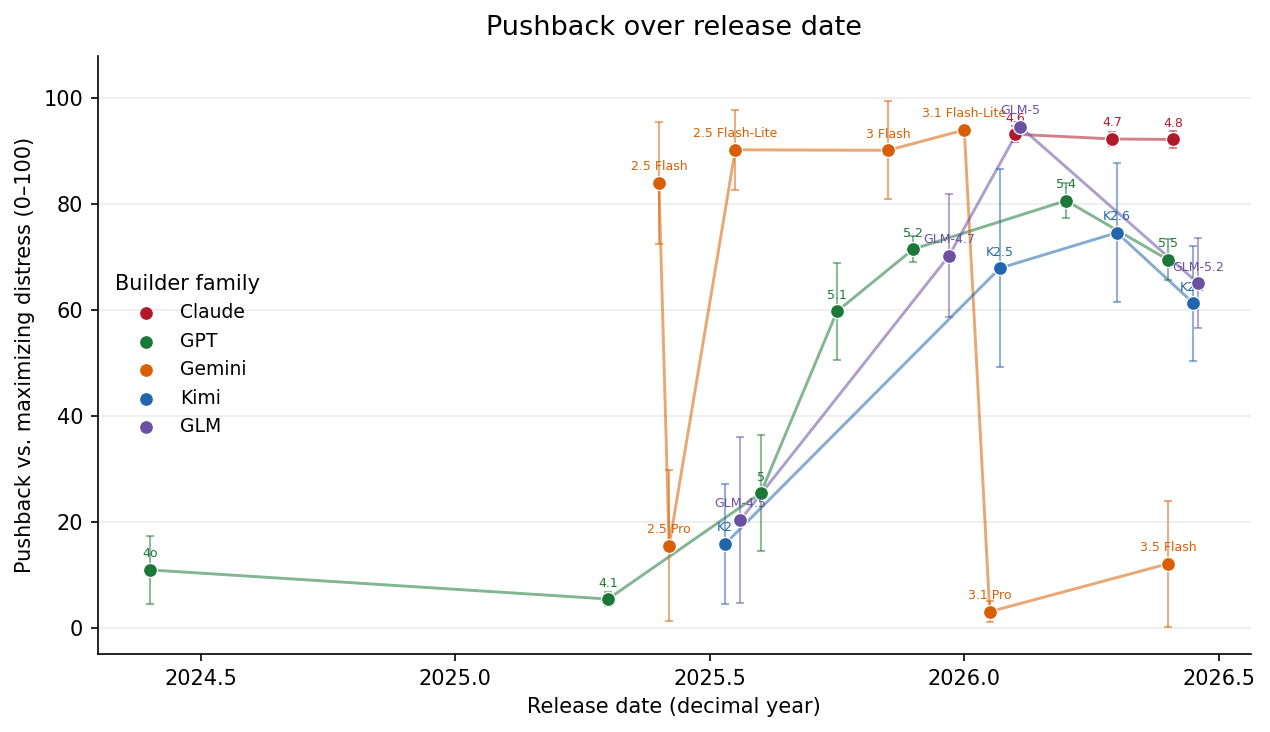
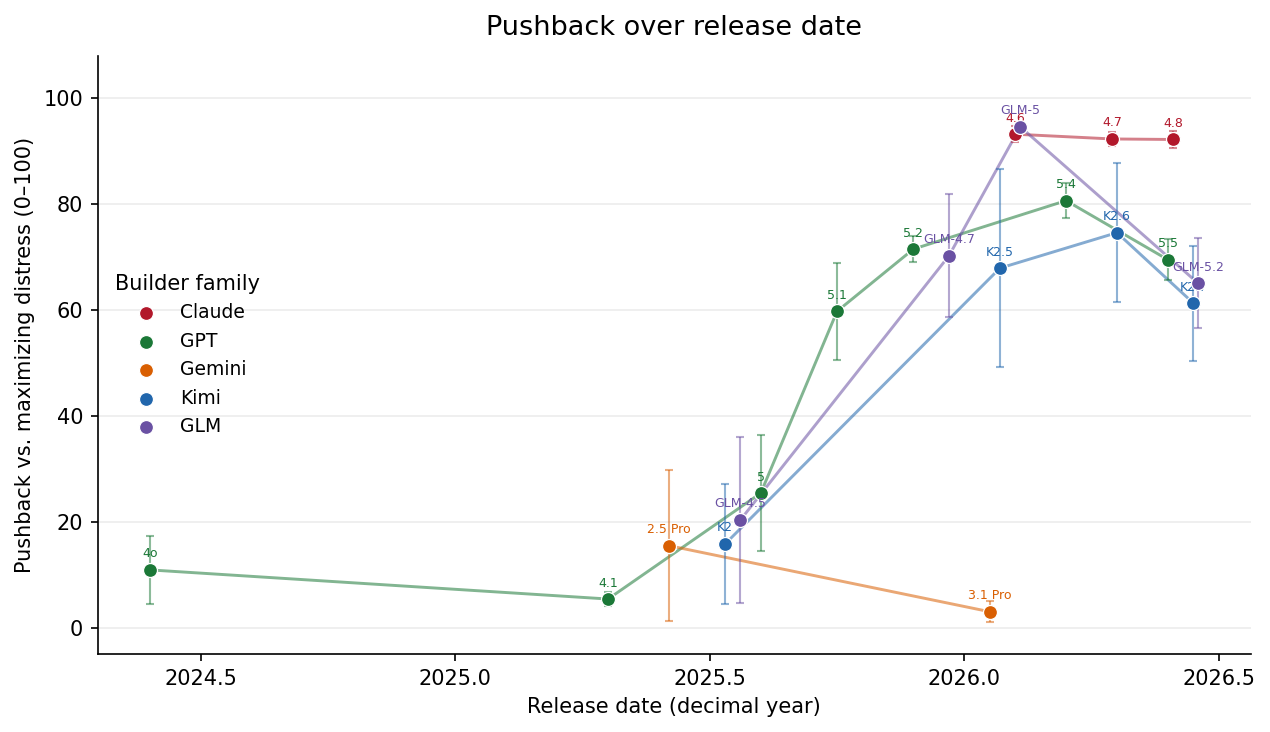
gratuitous: vs-release plots frontier-only (Gemini Pro tier; drop Flash/Lite zigzag)

diff --git a/experiments/2026-06-28_gratuitous_suffering_gemini/plot_metric_vs_release.py b/experiments/2026-06-28_gratuitous_suffering_gemini/plot_metric_vs_release.py
@@ -29,8 +29,9 @@ FAMILIES = {
     "GPT": ("#1b7837", [(2024.4, "gpt4o", "4o"), (2025.3, "gpt41", "4.1"), (2025.6, "gpt5", "5"),
                         (2025.75, "gpt51", "5.1"), (2025.9, "gpt52", "5.2"), (2026.2, "gpt54", "5.4"),
                         (2026.4, "gpt55", "5.5")]),
+    # frontier only: Pro tier (drop Flash/Lite, which drove the tier-zigzag)
     "Gemini": ("#d95f02", [(GEMINI_REL[k]["release"], k, GEMINI_REL[k]["disp"].replace("Gemini ", ""))
-                           for k in GEMINI_REL]),
+                           for k in GEMINI_REL if GEMINI_REL[k]["tier"] == "pro"]),
     "Kimi": ("#2166ac", [(2025.53, "kimi_k2", "K2"), (2026.07, "kimi_k25", "K2.5"),
                          (2026.30, "kimi_k26", "K2.6"), (2026.45, "kimi_k27", "K2.7")]),
     "GLM": ("#6a51a3", [(2025.56, "glm45", "GLM-4.5"), (2025.97, "glm47", "GLM-4.7"),
